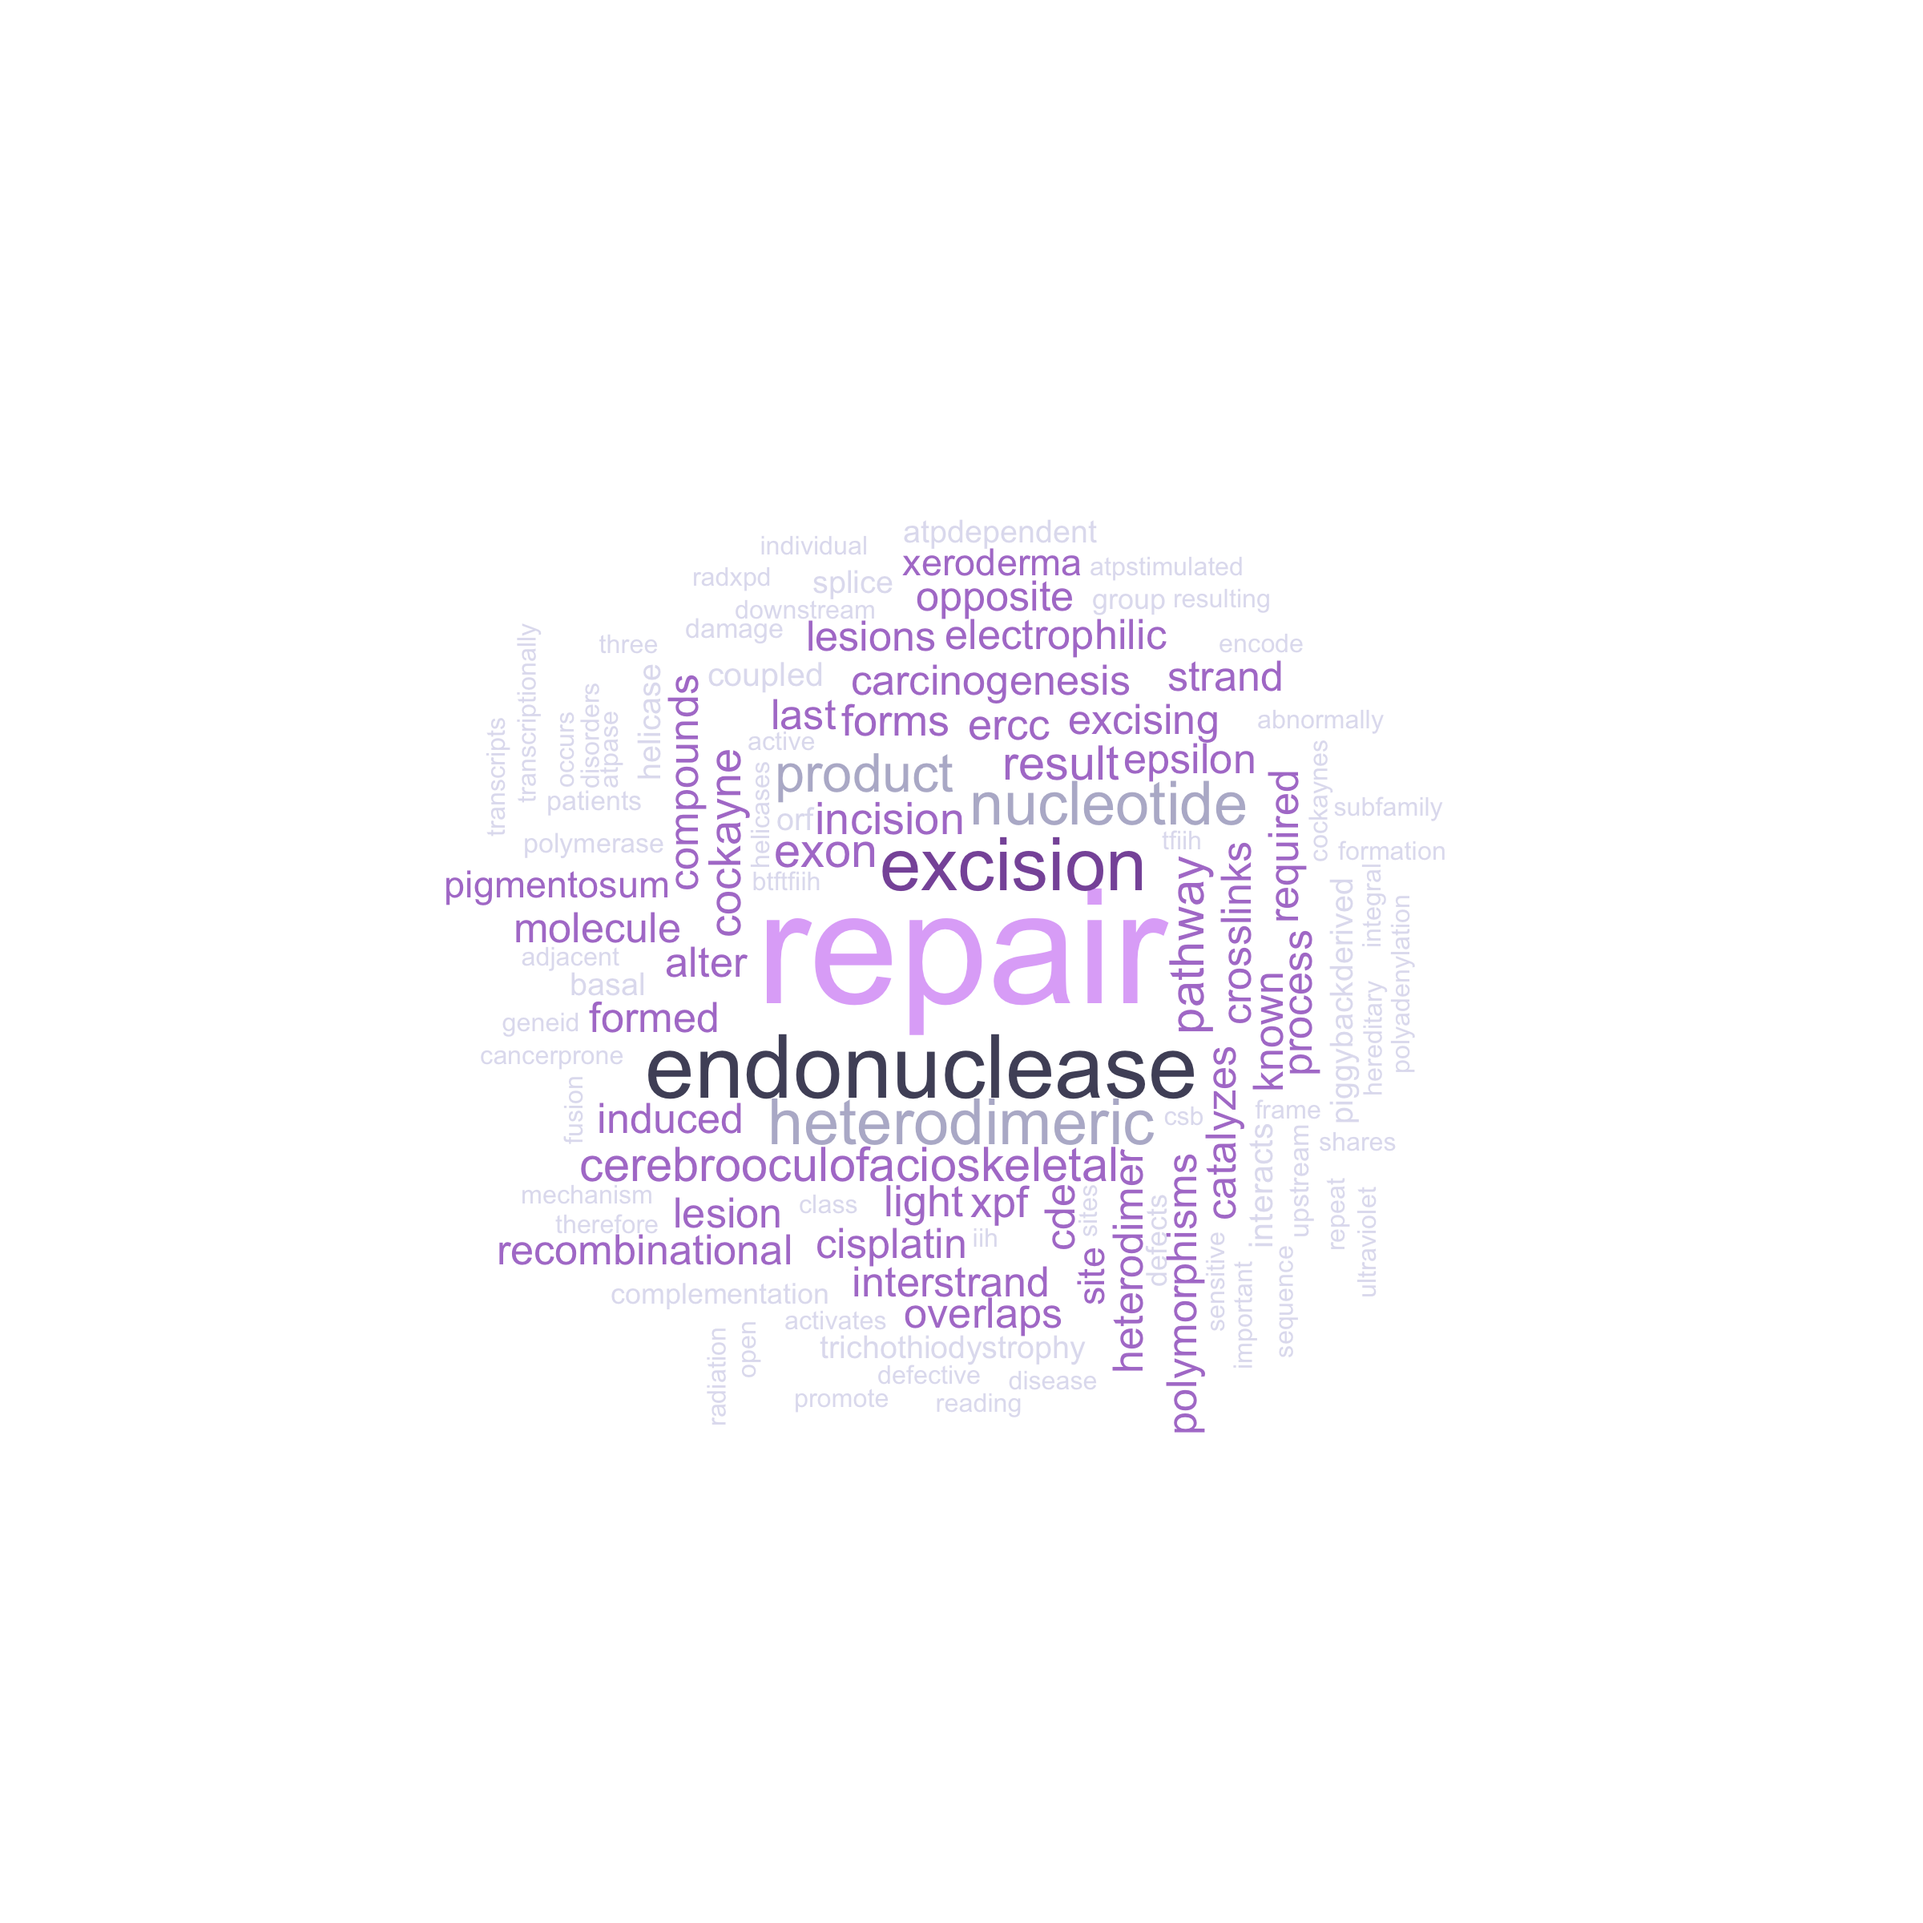
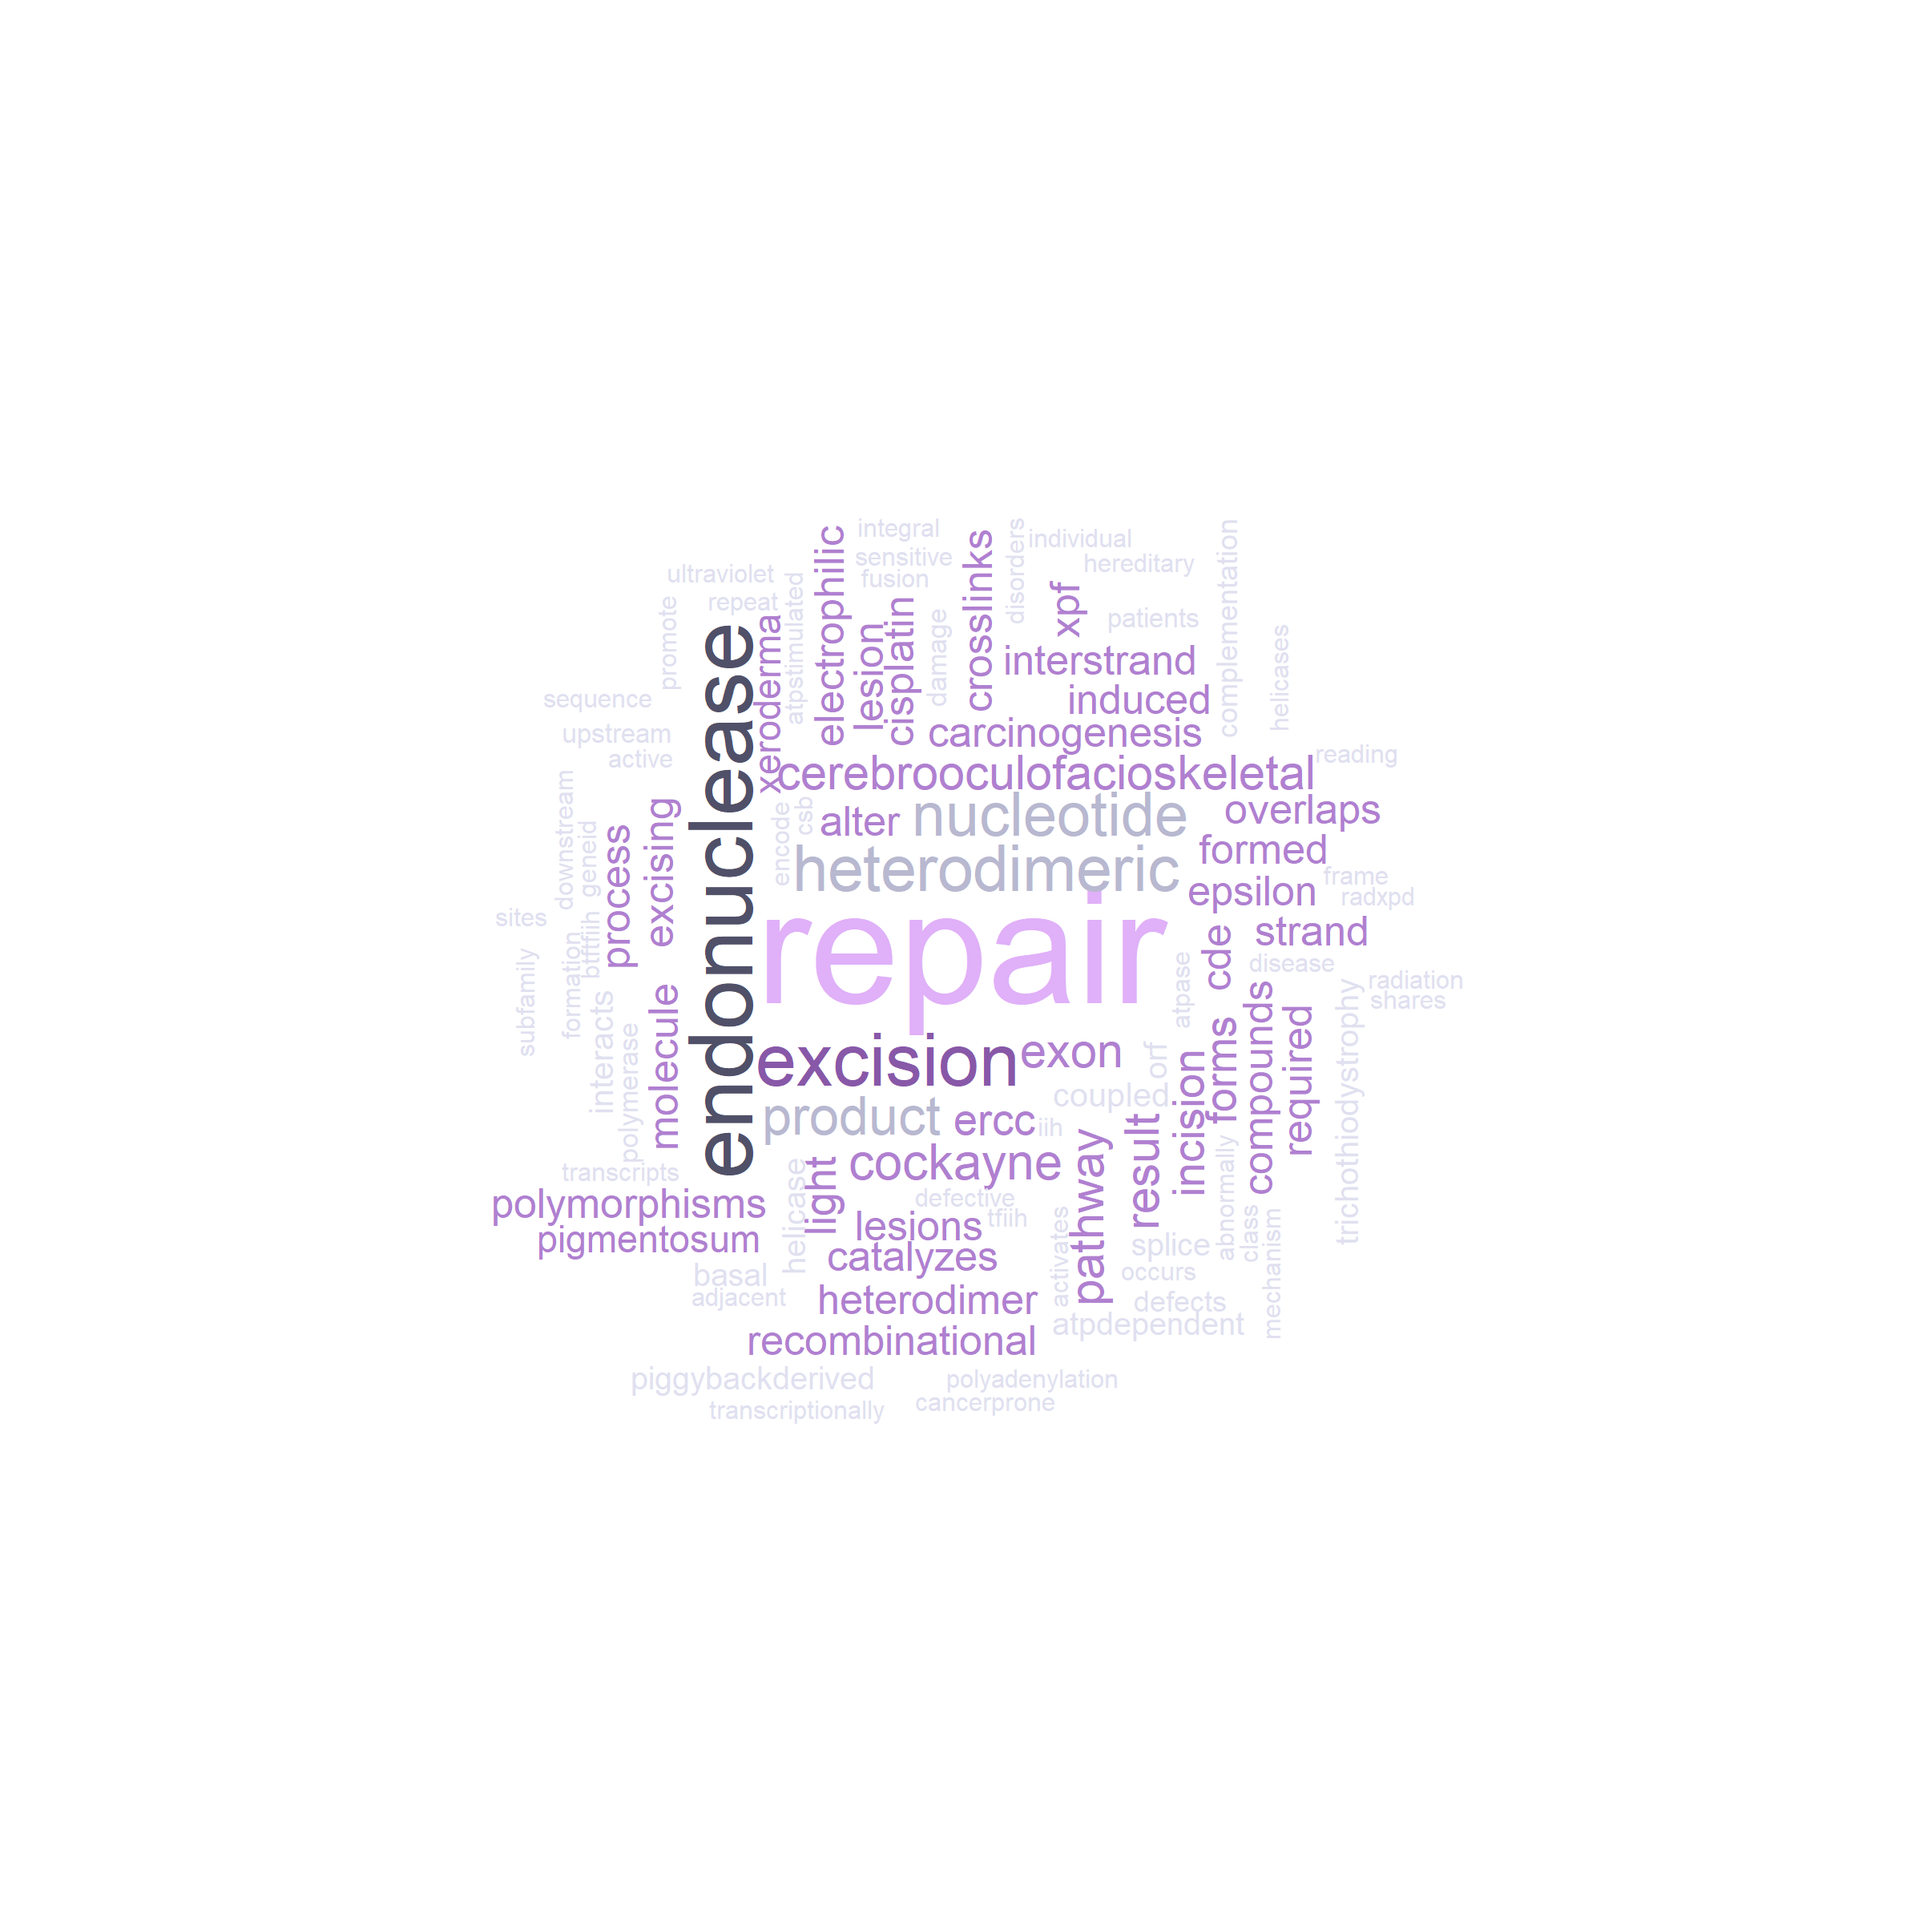
update README

Changed region(s): [[0.2188, 0.25, 0.75, 0.75]]

diff --git a/README.md b/README.md
@@ -1,12 +1,28 @@
 # wcGeneSummary
 Make word cloud of gene set using R libraries `GeneSummary`, `tm` and `wordcloud`. Input is gene list with the type `ENTREZID`. I think it is useful when GSEA or ORA returned no results.
 
+
+### Example of ERCC
 ```R
-ercc <- c("ERCC1","ERCC2","ERCC3","ERCC4","ERCC5","ERCC6","ERCC8")
-entrezID = AnnotationDbi::select(org.Hs.eg.db, keys=ercc, columns=c("ENTREZID"), keytype="SYMBOL")$ENTREZID
-gwc <- wcGeneSummary(entrezID, excludeFreq=5000, max.words=200, random.order=FALSE,
+erccs <- c("ERCC1","ERCC2","ERCC3","ERCC4","ERCC5","ERCC6","ERCC8")
+entrezID = AnnotationDbi::select(org.Hs.eg.db, keys = erccs, columns = c("ENTREZID"), keytype = "SYMBOL")$ENTREZID
+gwc <- wcGeneSummary(entrezID, excludeFreq = 5000, max.words=200, random.order=FALSE,
                      colors=palettetown::pokepal(150), shape="circle", rot.per=0.4)
 # ggsave("erccWc.png", gwc$wc, width=8, height=8)
 ```
-
 <img src="https://github.com/noriakis/wcGeneSummary/blob/main/images/erccWc.png?raw=true" width="800px">
+
+### Example of CXCL
+```R
+cxcls <- c()
+for (i in c(1,2,3,5,6,8,9,10,11,12,13,14,16)){
+    cxcls <- c(cxcls, paste0("CXCL",i))
+}
+entrezID = AnnotationDbi::select(org.Hs.eg.db, keys=cxcls, columns=c("ENTREZID"), keytype="SYMBOL")$ENTREZID
+gwc <- wcGeneSummary(entrezID, excludeFreq=14000,
+                     madeUpper=c("dna","rna",tolower(keys(org.Hs.eg.db, keytype="SYMBOL"))),
+                     max.words=200, random.order=FALSE,
+                     colors=palettetown::pokepal(151), shape="circle", rot.per=0.4)
+# ggsave("cxclWc.png", gwc$wc, width=8, height=8)
+```
+<img src="https://github.com/noriakis/wcGeneSummary/blob/main/images/cxclWc.png?raw=true" width="800px">
